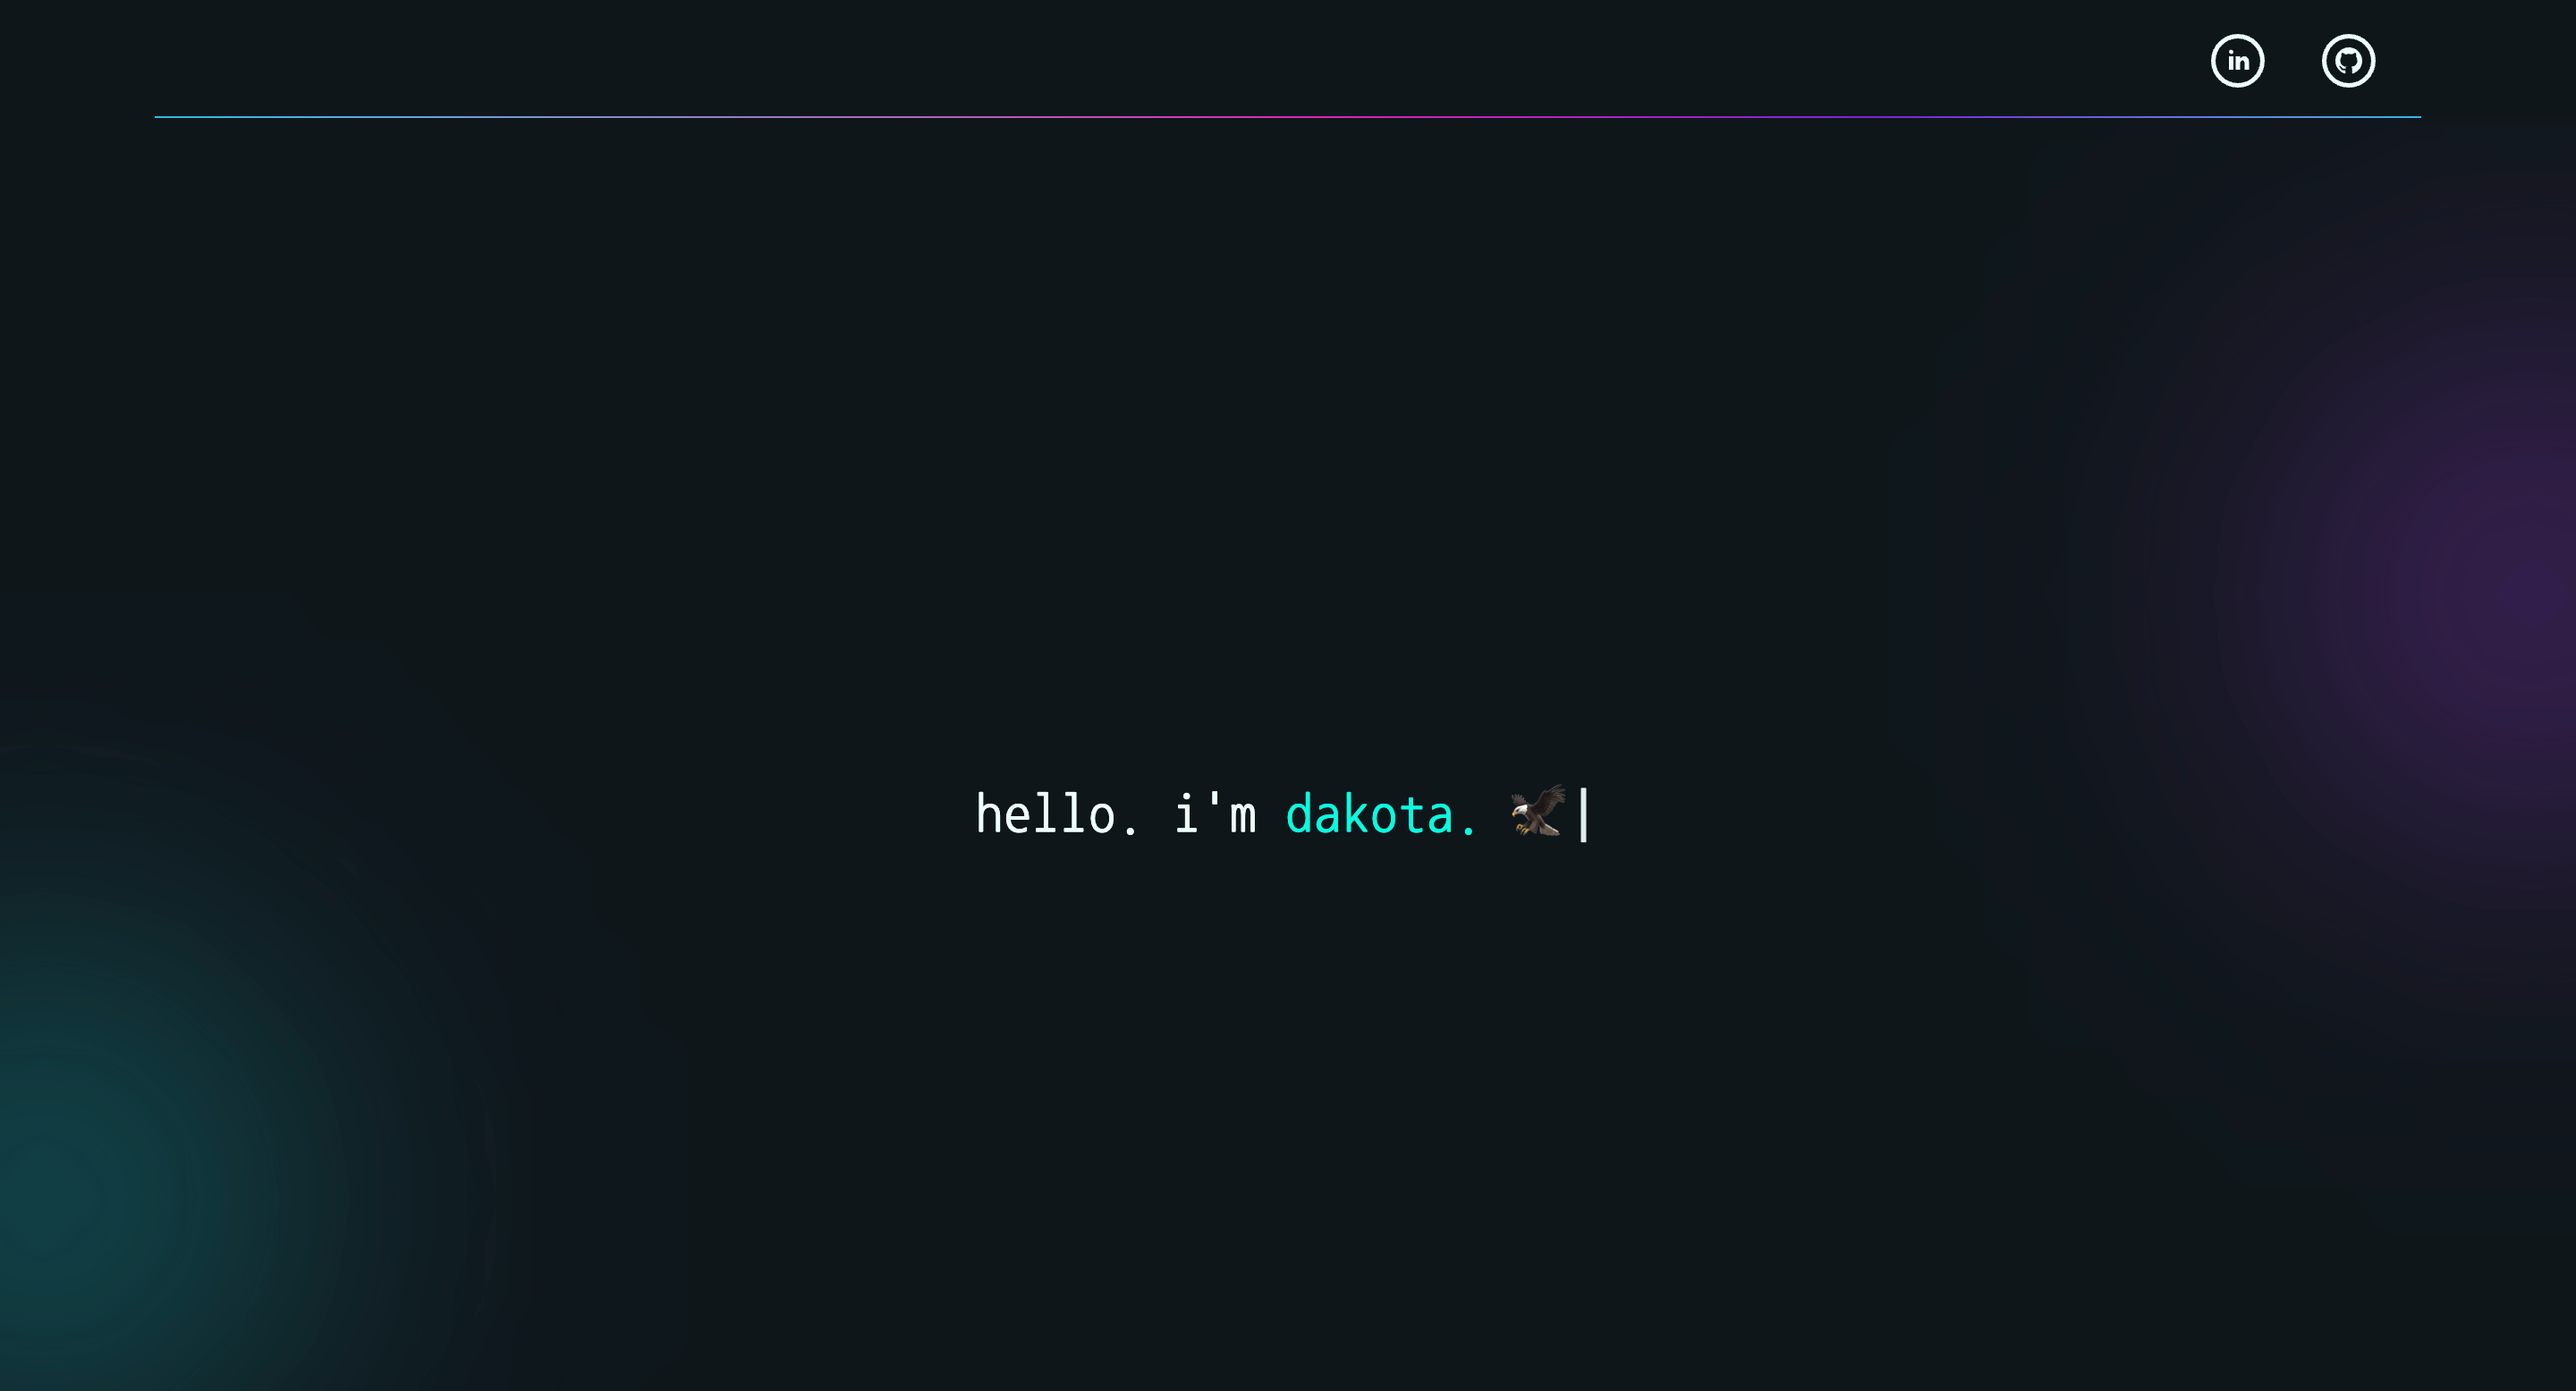
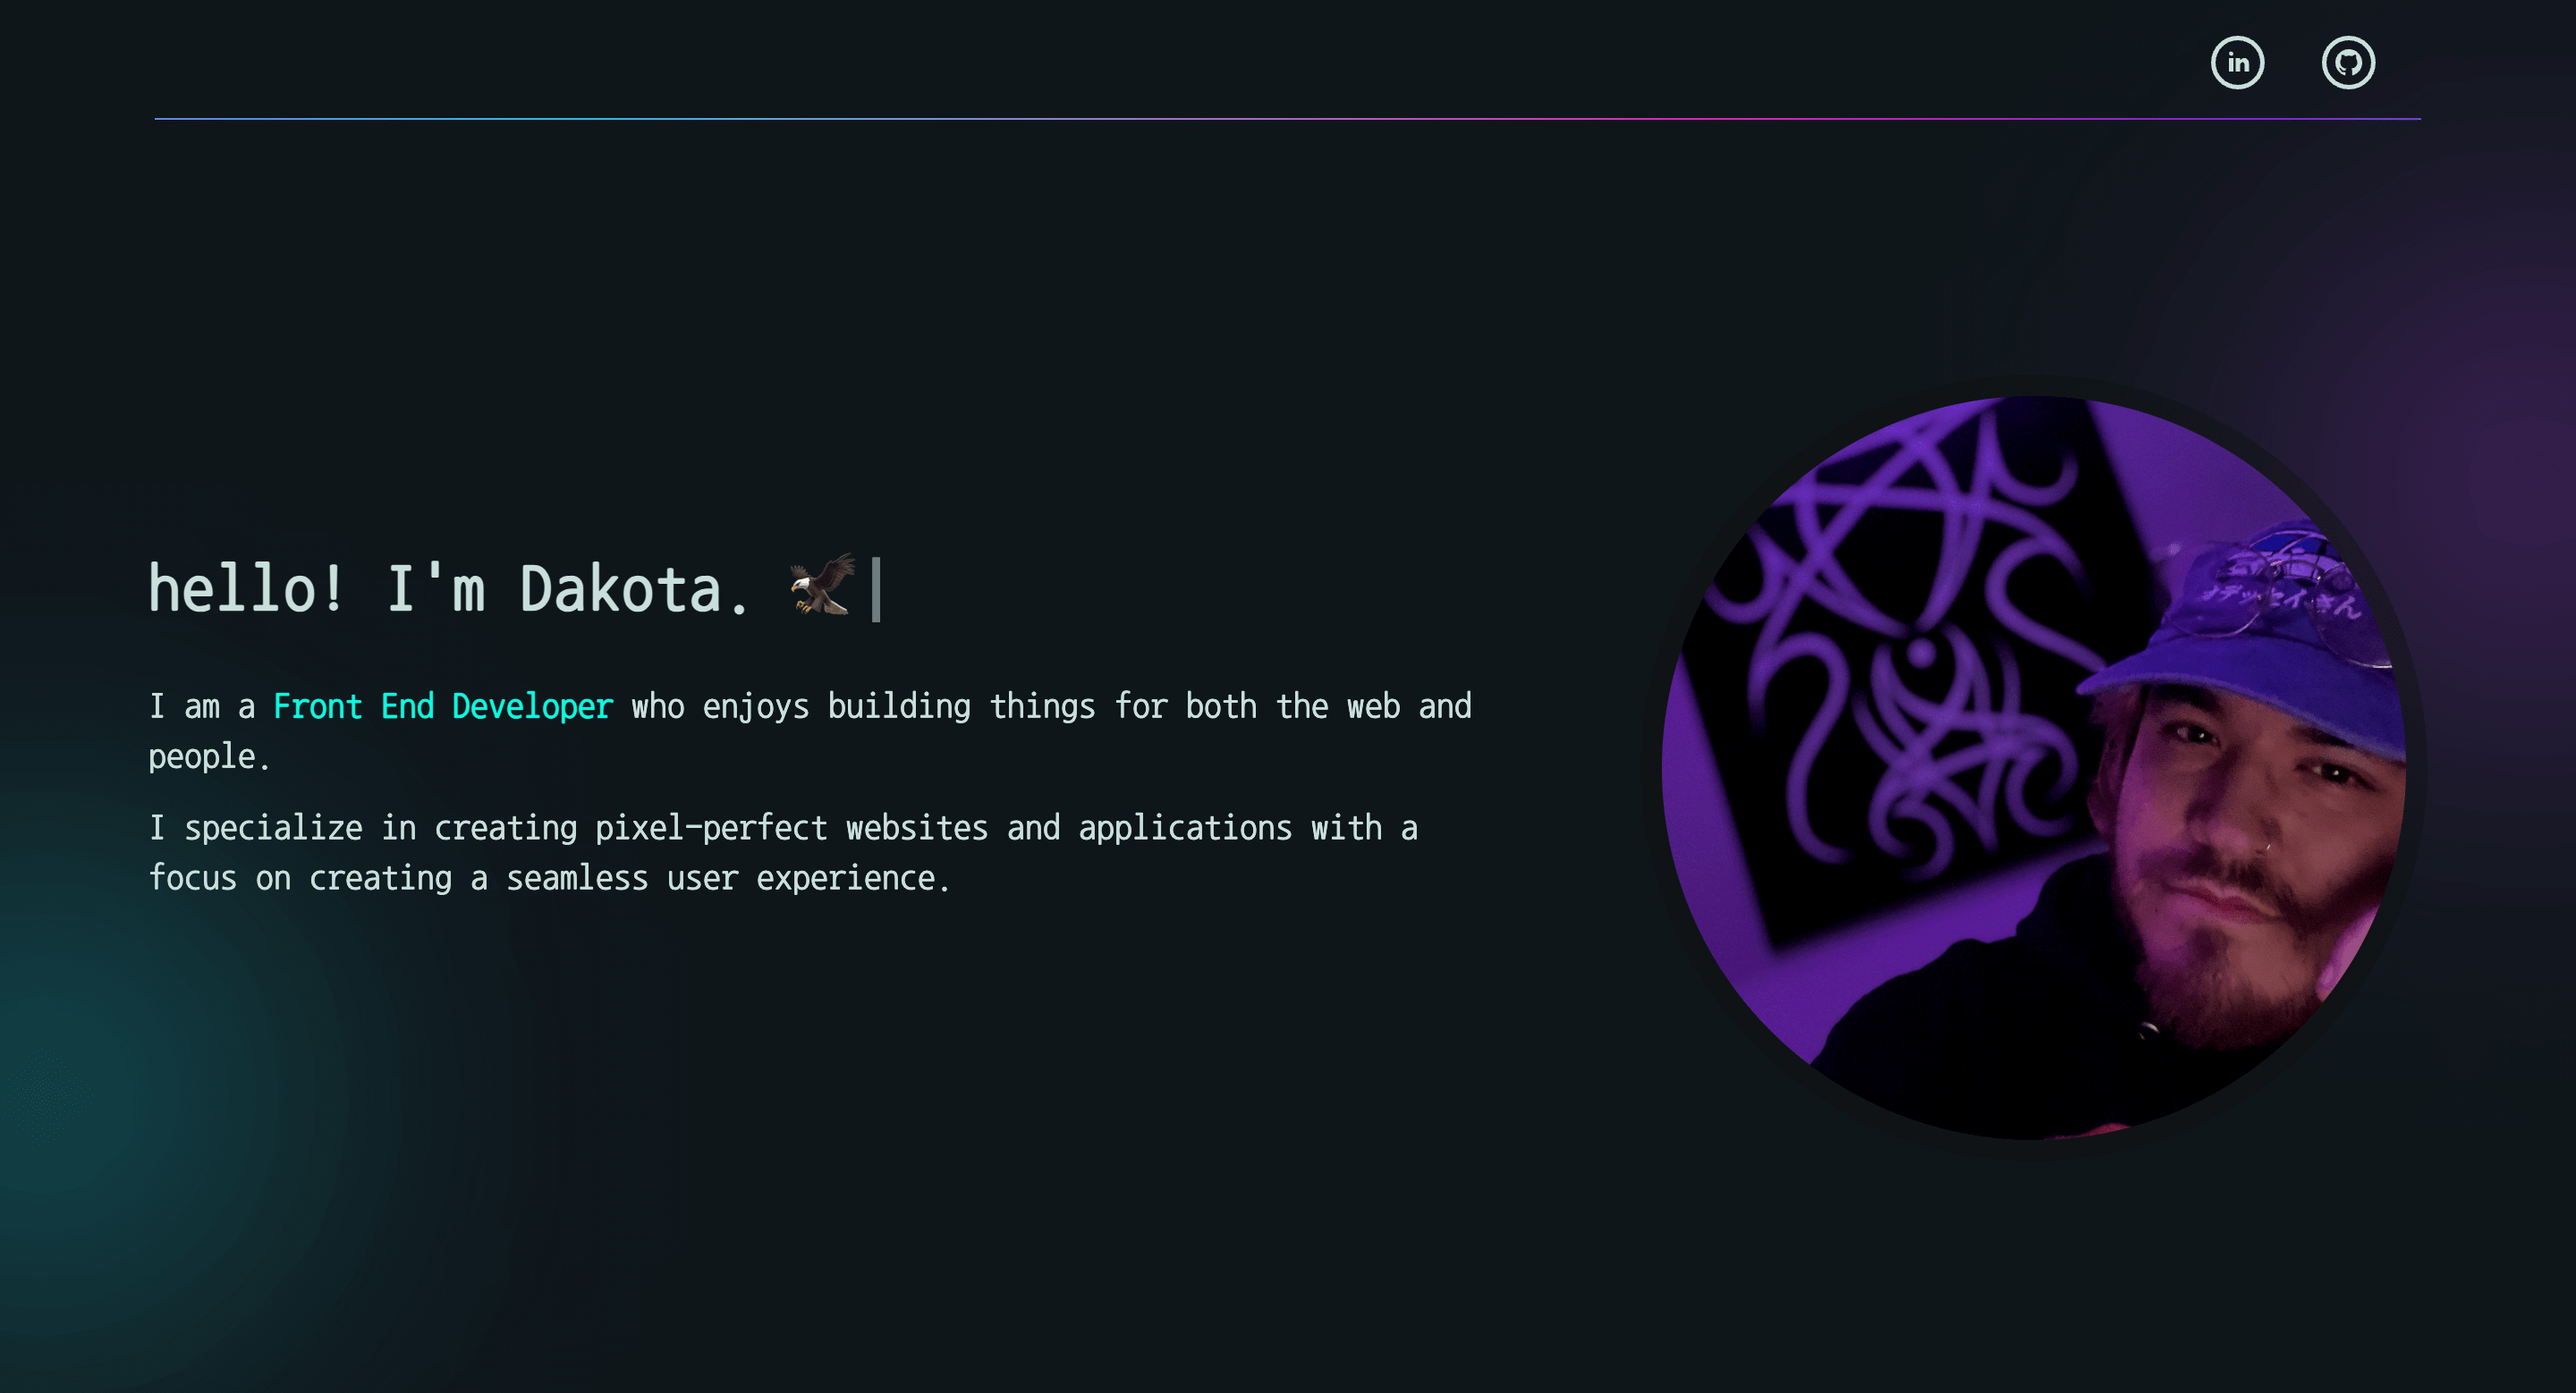
fix: og photo and spacing on header

diff --git a/src/components/sections/HeroSection.vue b/src/components/sections/HeroSection.vue
@@ -81,7 +81,7 @@ onUnmounted(() => {
 		/>
 		<div
 			ref="heroText"
-			class="[ md:max-w-[55%] text-center lg:text-left mx-auto ]"
+			class="[ max-w-[65%] lg:max-w-[40%] text-center lg:text-left mx-auto ]"
 			:class="{ 'fade-in': isVisible }"
 		>
 			<div
@@ -94,10 +94,7 @@ onUnmounted(() => {
 			<div class="text-primary md:text-xl leading-relaxed">
 				I am a
 				<span class="text-bg-theme font-bold">Front End Developer</span>
-				who enjoys building things for both the web and people.
-			</div>
-			<div class="mt-3 text-primary md:text-xl leading-relaxed">
-				I specialize in creating pixel-perfect websites and applications
+				who specializes in creating pixel-perfect websites and applications
 				with a focus on creating a seamless user experience.
 			</div>
 		</div>
